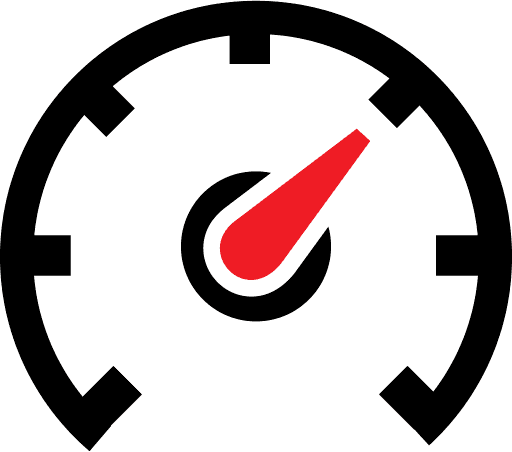
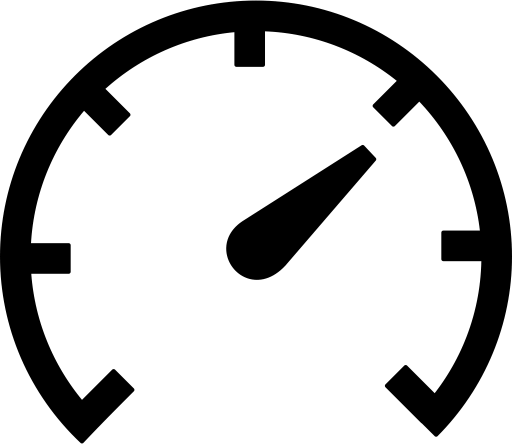
[UPDATE] 1. update PNG files to replace some iconset themes          2. check scandir return value to prevent a signal on free

diff --git a/smp_discover.cpp b/smp_discover.cpp
@@ -28,6 +28,11 @@ void doDiscover(Widget* pw)
     printf("discovering...\n");
 
     num = scandir(dev_bsg, &namelist, bsgdev_scan_select, NULL);
+    if (num < 0) {  /* HBA mid level may not be loaded */
+        perror("scandir");
+        pw->appendMessage("HBA mid level module may not be loaded.");
+        return;
+    }
 
     for (k = 0; k < num; ++k) {
         free(namelist[k]);

diff --git a/lsscsi.cpp b/lsscsi.cpp
@@ -469,6 +469,7 @@ list_sdevices(Widget* pw)
         path = QString("%1: scandir: %2").arg(__func__, buff);
         perror(path.toStdString().c_str());
         pw->appendMessage("SCSI mid level module may not be loaded.");
+        return;
     }
 
     for (prev = k = 0; k < num; ++k) {
